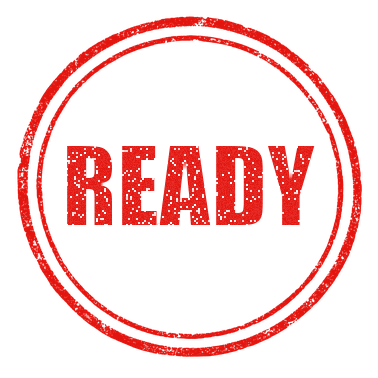
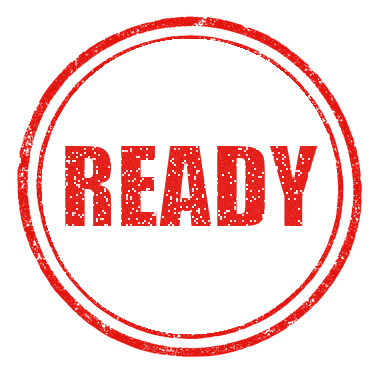
[FEAT] GROMO-2240 리뷰 반영 — 도장 생성 스크립트의 글꼴 부재·테두리 탐지·입력 검증을 명시적 실패로 바꾼다
- 글꼴 부재: --check 는 폴백하지 않고 «글꼴 없음 — 비교 불가(경로)» exit 2. 생성 모드도 --allow-fallback-font 없이는 exit 2(en.png 미변경) — Linux CI 나 글꼴 없는 맥에서 «최신이 아님» 거짓 실패와 잘못된 재생성 안내를 막는다
- 테두리 탐지: 반지름별 점유를 «픽셀 1개» 대신 각도 채움 비율 80% 이상으로 판정, 띠가 정확히 2개가 아니거나 폭(3~20px)·간격(3~25px)이 범위 밖이면 명시 메시지로 exit 1
- 잉크색: 불투명 픽셀이 없으면 명시 메시지 exit 1, 중앙값에서 멀리 떨어진 픽셀이 5% 를 넘으면 «두 색 도장» exit 1
- Pillow 버전이 requirements-tile-atlas.txt 와 다르면 경고, fit_text 최소 크기 미달 경고
- .en.png 재생성 — 각도 판정으로 안쪽 경계가 3px(145→148) 이동, 육안 동일. 결정성 유지(재생성 2회 바이트 동일)

diff --git a/app/app-dev/scripts/gen-localized-stamp.py b/app/app-dev/scripts/gen-localized-stamp.py
@@ -1,19 +1,26 @@
 """blueprint-ready-stamp-v3.ko.png("준비 완료" 도장) 의 영문판을 결정적으로 생성한다 (GROMO-2240).
 
 - 입력 ``<이름>.ko.png`` 에서 ① 불투명 픽셀의 채널별 중앙값으로 붉은 잉크색을 뽑고
-  ② 중심에서 바깥으로 반지름별 불투명 여부를 모아 가장 바깥의 두 개 띠(이중 원 테두리)를
-  찾아 그 안쪽을 투명하게 지워 글자를 없앤다(테두리 자체는 원본 픽셀 그대로 보존)
-  ③ 빈 원 안에 굵은 글꼴로 READY 를 중앙 정렬해 찍는다
+  (중앙값과 멀리 떨어진 픽셀이 5% 를 넘으면 "두 색 도장"으로 실패) ② 중심에서
+  반지름별 각도 채움 비율로 가장 바깥의 두 개 띠(이중 원 테두리)를 찾아 그 안쪽을
+  투명하게 지워 글자를 없앤다(테두리 자체는 원본 픽셀 그대로 보존, 띠 개수·폭·간격이
+  기대를 벗어나면 실패) ③ 빈 원 안에 굵은 글꼴로 READY 를 중앙 정렬해 찍는다(글꼴이
+  없으면 --check 는 바로 실패하고, 생성도 --allow-fallback-font 없이는 실패한다)
   ④ 가장자리를 1px 침식하고 고정 시드 잡음을 알파에 곱해 원본의 거친 잉크 질감을 흉내 낸다.
 - 결정적: 잡음 시드 고정 + PNG 메타데이터 없이 저장 -> 같은 입력이면 같은 바이트.
 - --check: 메모리에서 다시 만들어 커밋된 ``<이름>.en.png`` 와 바이트 비교, 다르면 exit 1.
 
 사용법:
-  python3 scripts/gen-localized-stamp.py              # .en.png 생성
-  python3 scripts/gen-localized-stamp.py --check       # 바이트 비교만(다르면 exit 1)
-  python3 scripts/gen-localized-stamp.py --font <경로>  # READY 글꼴 교체(기본 Impact)
+  python3 scripts/gen-localized-stamp.py                      # .en.png 생성
+  python3 scripts/gen-localized-stamp.py --check               # 바이트 비교만(다르면 exit 1)
+  python3 scripts/gen-localized-stamp.py --font <경로>          # READY 글꼴 교체(기본 Impact)
+  python3 scripts/gen-localized-stamp.py --allow-fallback-font  # 글꼴 없어도 Pillow 기본 글꼴로 생성
 
-의존성: Pillow(이미 scripts/requirements-tile-atlas.txt 에 고정된 버전 — 새 requirements 없음).
+종료 코드: 0 정상 / 1 테두리 기하 이상·색 불균일·--check 불일치 / 2 글꼴 없음
+(생성은 --allow-fallback-font 로 우회 가능, --check 는 우회 불가 — 비교 기준이 흔들리면 안 됨).
+
+의존성: Pillow(이미 scripts/requirements-tile-atlas.txt 에 고정된 버전 — 새 requirements 없음,
+설치된 버전이 다르면 경고만 찍는다).
 """
 
 import argparse
@@ -23,16 +30,22 @@ import random
 import sys
 from pathlib import Path
 
+import PIL
 from PIL import Image, ImageChops, ImageDraw, ImageFilter, ImageFont
 
 UI_DIR = Path(__file__).resolve().parents[1] / "src/assets/interiors/ui"
 KO_PATH = UI_DIR / "blueprint-ready-stamp-v3.ko.png"
 EN_PATH = UI_DIR / "blueprint-ready-stamp-v3.en.png"
+REQUIREMENTS_FILE = Path(__file__).resolve().parent / "requirements-tile-atlas.txt"
 DEFAULT_FONT = "/System/Library/Fonts/Supplemental/Impact.ttf"
 TEXT = "READY"
 SEED = 20240  # 잡음 마스크 고정 시드 -> 결정적 출력
 ALPHA_THRESH = 10  # 이보다 큰 알파만 "불투명 픽셀"로 취급(안티앨리어싱 잔여 무시)
-MIN_BAND = 4  # 이 폭(px) 이상인 반지름 구간만 테두리 띠로 인정(그런지 잡음에 의한 오탐 제거)
+COLOR_DIST_THRESH = 20  # RGB 유클리드 거리 — 실측 ko 그런지 p95≈14 보다 여유를 둠
+FILL_THRESH = 0.8  # 이 비율 이상 각도가 불투명해야 "테두리 띠"로 인정(점 하나짜리 오탐 방지)
+ANGLE_SAMPLES = 360
+EXPECTED_BAND_WIDTH = (3, 20)  # px — 실측(바깥 8px, 안쪽 4px)에 여유를 둔 범위
+EXPECTED_BAND_GAP = (3, 25)  # px — 실측 11px 에 여유를 둔 범위
 
 
 def opaque_pixels(im):
@@ -42,49 +55,87 @@ def opaque_pixels(im):
 
 
 def ink_color(im, opaque):
-    """불투명(알파>200) 픽셀의 채널별 중앙값 -> 원본과 같은 붉은색."""
+    """불투명(알파>200) 픽셀의 채널별 중앙값 -> 원본과 같은 붉은색.
+
+    중앙값과 거리가 COLOR_DIST_THRESH 를 넘는 불투명 픽셀이 5% 를 넘으면
+    빨강 하나가 아니라 두 색을 쓰는 도장으로 보고 실패한다(이 스크립트는
+    단색 잉크 도장만 다룬다).
+    """
     px = im.load()
     strong = [(x, y) for x, y in opaque if px[x, y][3] > 200]
+    if not strong:
+        raise SystemExit("불투명(알파>200) 픽셀이 없어 잉크색을 추출할 수 없음")
+
     channels = [sorted(px[x, y][c] for x, y in strong) for c in range(3)]
     mid = len(strong) // 2
-    return tuple(ch[mid] for ch in channels)
+    color = tuple(ch[mid] for ch in channels)
+
+    far = sum(1 for x, y in strong if math.dist(px[x, y][:3], color) > COLOR_DIST_THRESH)
+    if far / len(strong) > 0.05:
+        raise SystemExit(
+            f"잉크색이 고르지 않음(중앙값과 거리>{COLOR_DIST_THRESH} 인 픽셀 "
+            f"{far / len(strong):.1%}) — 두 색 도장으로 의심됨"
+        )
+    return color
+
+
+def angular_fill(im, cx, cy, r, samples=ANGLE_SAMPLES):
+    """반지름 r 인 원 위 samples 개 각도 중 불투명 픽셀의 비율."""
+    px = im.load()
+    w, h = im.size
+    hit = 0
+    for k in range(samples):
+        theta = 2 * math.pi * k / samples
+        x = round(cx + r * math.cos(theta))
+        y = round(cy + r * math.sin(theta))
+        if 0 <= x < w and 0 <= y < h and px[x, y][3] > ALPHA_THRESH:
+            hit += 1
+    return hit / samples
 
 
 def ring_geometry(im, opaque):
     """중심과, 이중 원 테두리 안쪽 경계 반지름을 찾는다.
 
-    중심은 불투명 픽셀 bbox 의 중앙. 중심에서 각 정수 반지름에 불투명 픽셀이
-    하나라도 있는지(각도 무관)로 1차원 점유 배열을 만들고, 바깥에서 안으로
-    훑으며 MIN_BAND 이상 폭의 "있음" 구간(띠)을 테두리로 센다. 가장 바깥 두
-    띠가 이중 원이고, 그보다 안쪽(글자 + 내부 잡음)을 지운다.
+    중심은 불투명 픽셀 bbox 의 중앙. 각 정수 반지름에서 각도별 불투명 비율
+    (angular_fill)이 FILL_THRESH 이상이어야 "테두리 띠"로 본다 — 픽셀 하나만
+    있어도 그 반지름 전체가 잡히던 이전 방식과 달리, 글자 획처럼 일부 각도에만
+    있는 모양은 이 기준을 넘지 않는다. 바깥에서 안으로 훑어 모은 띠가 정확히
+    2개이고 폭·간격이 기대 범위 안일 때만 이중 원으로 인정해 그 안쪽(글자 +
+    내부 잡음)을 지운다. 기대를 벗어나면 조용히 넘어가지 않고 즉시 실패한다.
     """
     xs = [x for x, _ in opaque]
     ys = [y for _, y in opaque]
     cx, cy = (min(xs) + max(xs)) / 2, (min(ys) + max(ys)) / 2
+    max_r = round(max(math.hypot(x - cx, y - cy) for x, y in opaque))
 
-    has_r = set()
-    max_r = 0
-    for x, y in opaque:
-        r = round(math.hypot(x - cx, y - cy))
-        has_r.add(r)
-        max_r = max(max_r, r)
+    has_r = [angular_fill(im, cx, cy, r) >= FILL_THRESH for r in range(max_r + 1)]
 
     bands = []  # 바깥 -> 안쪽 순, (바깥반지름, 안쪽반지름)
     run_hi = None
     for r in range(max_r, -1, -1):
-        if r in has_r:
+        if has_r[r]:
             if run_hi is None:
                 run_hi = r
-        else:
-            if run_hi is not None and run_hi - r >= MIN_BAND:
-                bands.append((run_hi, r + 1))
+        elif run_hi is not None:
+            bands.append((run_hi, r + 1))
             run_hi = None
-    if run_hi is not None and run_hi + 1 >= MIN_BAND:
+    if run_hi is not None:
         bands.append((run_hi, 0))
 
-    if len(bands) < 2:
-        raise SystemExit(f"이중 원 테두리를 찾지 못함(띠 {len(bands)}개) — MIN_BAND 조정 필요")
-    return cx, cy, bands[1][1]  # 두 번째(안쪽) 띠의 안쪽 경계부터 바깥은 보존
+    if len(bands) != 2:
+        raise SystemExit(f"이중 원 테두리를 못 찾음(띠 {len(bands)}개, 기대 2개): {bands}")
+
+    (hi0, lo0), (hi1, lo1) = bands
+    w0, w1 = hi0 - lo0 + 1, hi1 - lo1 + 1
+    gap = lo0 - hi1 - 1
+    lo, hi = EXPECTED_BAND_WIDTH
+    if not (lo <= w0 <= hi and lo <= w1 <= hi):
+        raise SystemExit(f"테두리 띠 폭이 기대 범위({lo}~{hi}px) 밖: 바깥 {w0}px, 안쪽 {w1}px")
+    lo, hi = EXPECTED_BAND_GAP
+    if not (lo <= gap <= hi):
+        raise SystemExit(f"테두리 띠 간격이 기대 범위({lo}~{hi}px) 밖: {gap}px")
+
+    return cx, cy, lo1  # 안쪽(두 번째) 띠의 안쪽 경계부터 바깥은 보존
 
 
 def clear_inside(im, cx, cy, radius):
@@ -96,11 +147,18 @@ def clear_inside(im, cx, cy, radius):
                 px[x, y] = (0, 0, 0, 0)
 
 
+def font_available(path):
+    try:
+        ImageFont.truetype(path, 10)
+        return True
+    except OSError:
+        return False
+
+
 def load_font(path, size):
     try:
         return ImageFont.truetype(path, size)
     except OSError:
-        print(f"경고: 글꼴 {path} 를 찾을 수 없어 Pillow 기본 글꼴로 폴백합니다", file=sys.stderr)
         return ImageFont.load_default(size=size)
 
 
@@ -109,6 +167,7 @@ def fit_text(draw, font_path, max_corner):
 
     텍스트 bbox 의 중심에서 모서리까지 거리가 max_corner 를 넘지 않는 가장 큰
     크기를 2px 단위로 내려가며 찾는다(원형 영역 제약이라 모서리 거리 기준).
+    최소 크기에서도 안 맞으면 경고만 찍고 그 크기를 그대로 쓴다.
     """
     size = 140
     font = load_font(font_path, size)
@@ -120,7 +179,14 @@ def fit_text(draw, font_path, max_corner):
         size -= 2
         font = load_font(font_path, size)
         bbox = draw.textbbox((0, 0), TEXT, font=font)
-    return font, bbox  # 최소 크기도 못 맞으면 그냥 최소 크기로
+
+    tw, th = bbox[2] - bbox[0], bbox[3] - bbox[1]
+    if math.hypot(tw / 2, th / 2) > max_corner:
+        print(
+            f"경고: 최소 크기({size}pt)에서도 READY 가 반지름 {max_corner:.0f} 안에 안 들어감 — 그대로 사용",
+            file=sys.stderr,
+        )
+    return font, bbox
 
 
 def grunge(alpha_img):
@@ -143,6 +209,25 @@ def grunge(alpha_img):
     blocky = bytes(255 if rng.random() > 0.1 else rng.randint(0, 60) for _ in range(cw * ch))
     holes = Image.frombytes("L", (cw, ch), blocky).resize((w, h), Image.Resampling.NEAREST)
     return ImageChops.multiply(out, holes)
+
+
+def warn_pillow_version():
+    """requirements-tile-atlas.txt 에 고정된 Pillow 버전과 다르면 경고만 찍는다(실패 아님) —
+    아틀라스 스크립트와 같은 버전이어야 픽셀 결과가 재현된다는 전제를 공유한다."""
+    try:
+        text = REQUIREMENTS_FILE.read_text(encoding="utf-8")
+    except OSError:
+        return
+    for line in text.splitlines():
+        if line.startswith("pillow=="):
+            expected = line.split("==", 1)[1].strip()
+            if PIL.__version__ != expected:
+                print(
+                    f"경고: 설치된 Pillow {PIL.__version__} 이 {REQUIREMENTS_FILE.name} 고정 버전 "
+                    f"{expected} 과 다름 — 생성 픽셀이 달라질 수 있음",
+                    file=sys.stderr,
+                )
+            return
 
 
 def render(font_path):
@@ -170,10 +255,31 @@ def main():
     ap = argparse.ArgumentParser(description=__doc__)
     ap.add_argument("--check", action="store_true", help="커밋된 .en.png 와 바이트 비교만 한다")
     ap.add_argument("--font", default=DEFAULT_FONT, help="READY 를 찍을 글꼴 경로")
+    ap.add_argument(
+        "--allow-fallback-font",
+        action="store_true",
+        help="글꼴을 못 찾아도 Pillow 기본 글꼴로 생성을 계속한다(결과 품질 저하 감수)",
+    )
     args = ap.parse_args()
+
+    warn_pillow_version()
 
     if not KO_PATH.exists():
         raise SystemExit(f"{KO_PATH} 없음")
+
+    if not font_available(args.font):
+        if args.check:
+            # --check 는 비교 기준(글꼴)이 없으면 성립하지 않는다 — 폴백으로 "최신" 판정을 내지 않는다.
+            print(f"글꼴 없음 — 비교 불가({args.font})", file=sys.stderr)
+            sys.exit(2)
+        if not args.allow_fallback_font:
+            print(
+                f"글꼴 없음({args.font}) — 폴백 글꼴로 생성하려면 --allow-fallback-font 를 명시해라",
+                file=sys.stderr,
+            )
+            sys.exit(2)
+        print(f"경고: 글꼴 {args.font} 를 찾을 수 없어 Pillow 기본 글꼴로 폴백합니다", file=sys.stderr)
+
     out = render(args.font)
 
     if args.check:
